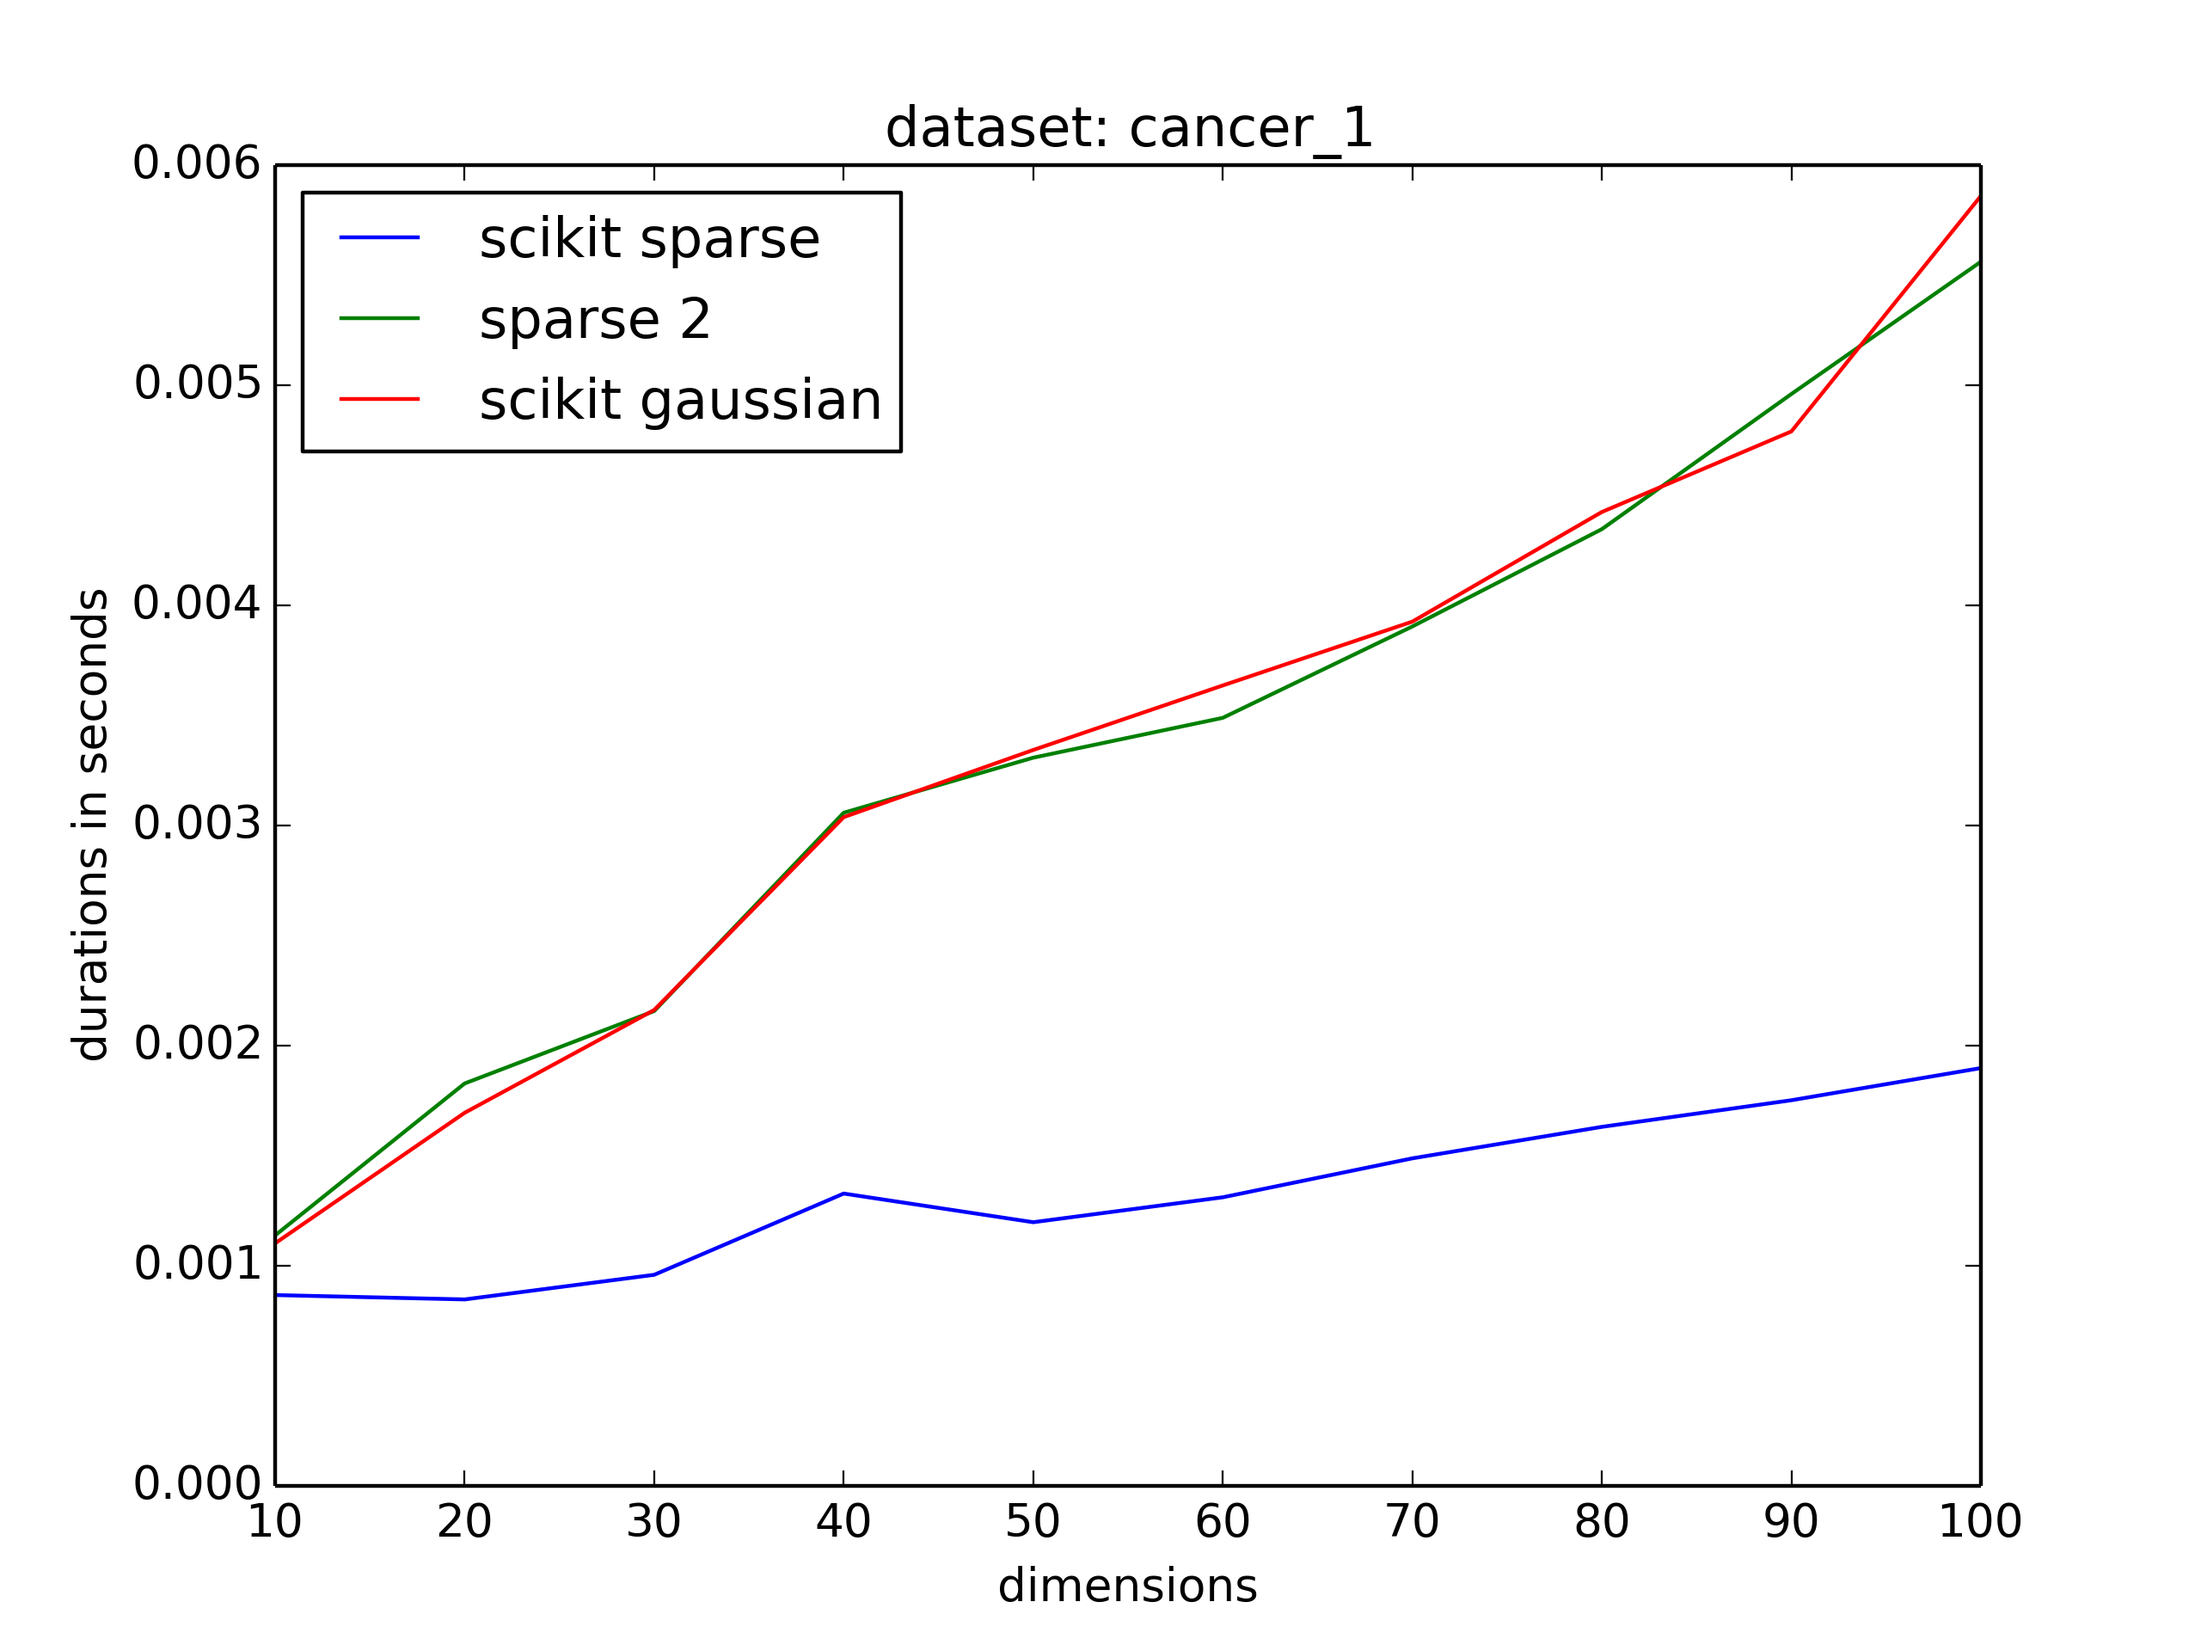
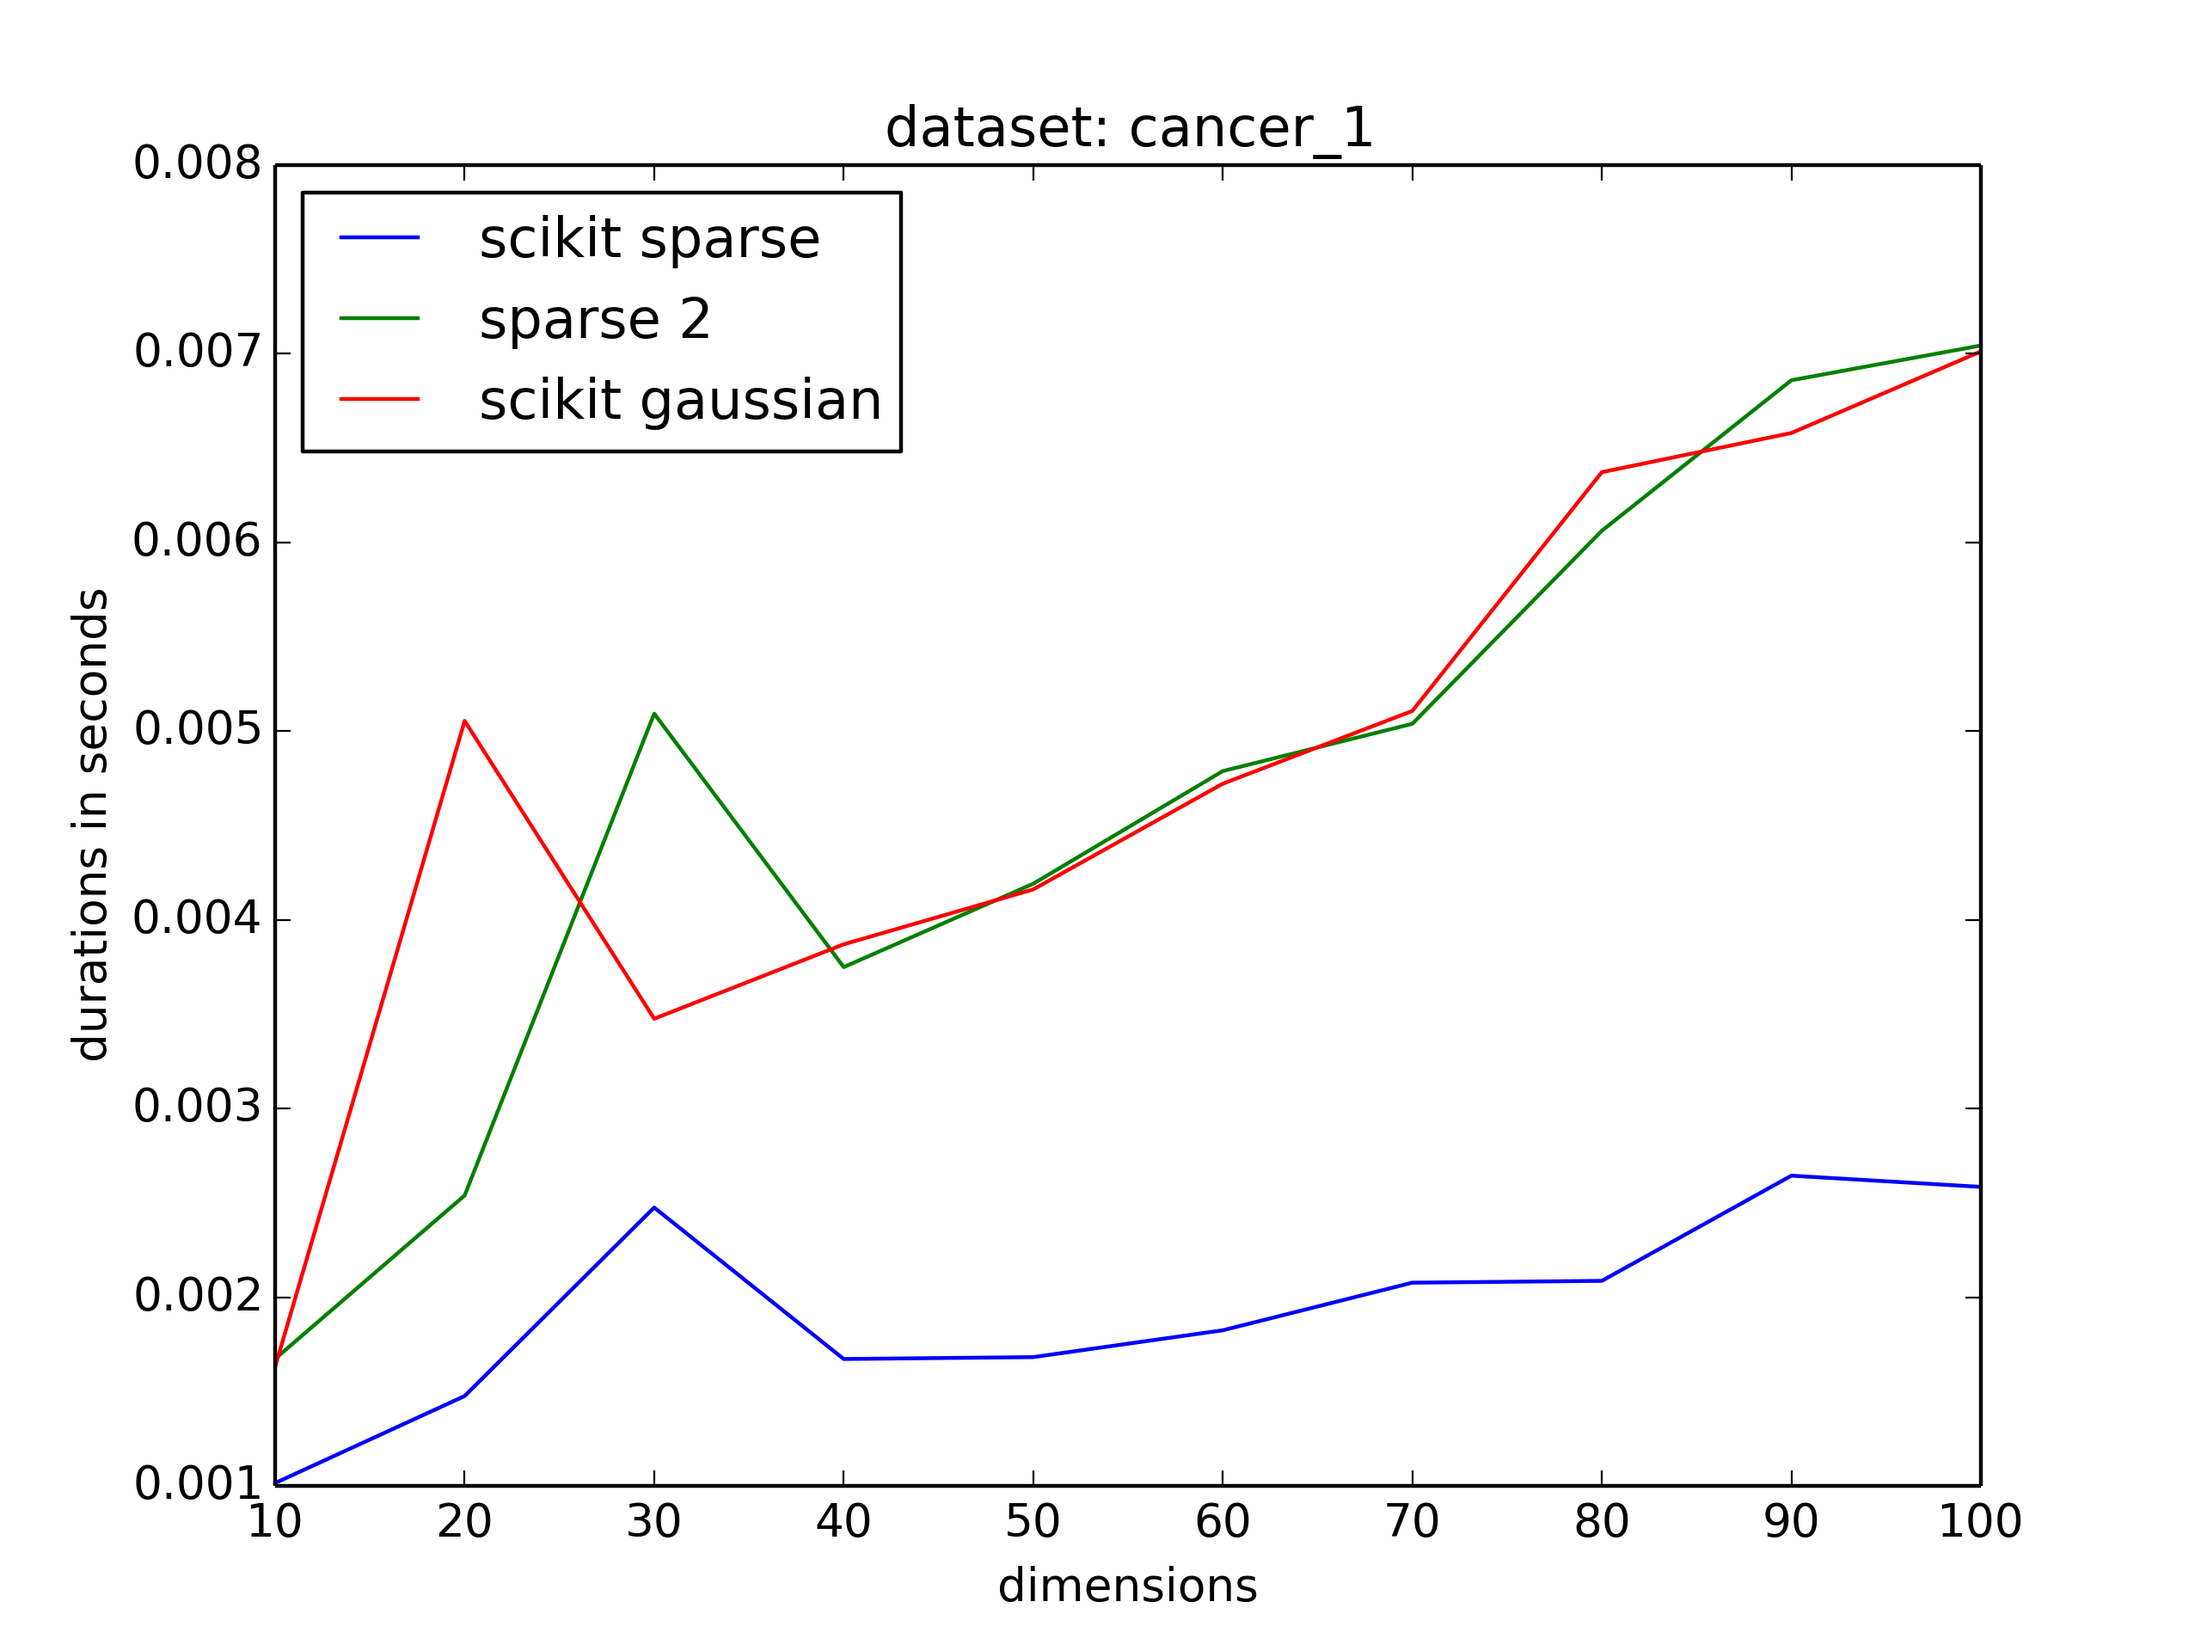
iterate 20 times for duratios

diff --git a/random-projection/quality_durations.py b/random-projection/quality_durations.py
@@ -48,10 +48,14 @@ for dataset in datasets.iterkeys():
 
         for key in rand_matrices.iterkeys():
             matrix = rand_matrices[key]
-            start = time.time()
-            reduced = data * matrix
-            duration = time.time() - start
-            durations[key].append(duration)
+
+            avg_durations = []
+            for i in range(0, 20):
+                start = time.time()
+                reduced = data * matrix
+                duration = time.time() - start
+                avg_durations.append(duration)
+            durations[key].append(np.mean(avg_durations))
 
     for key in rand_matrices.iterkeys():
         plt.plot(dimensions, durations[key], label=key )
